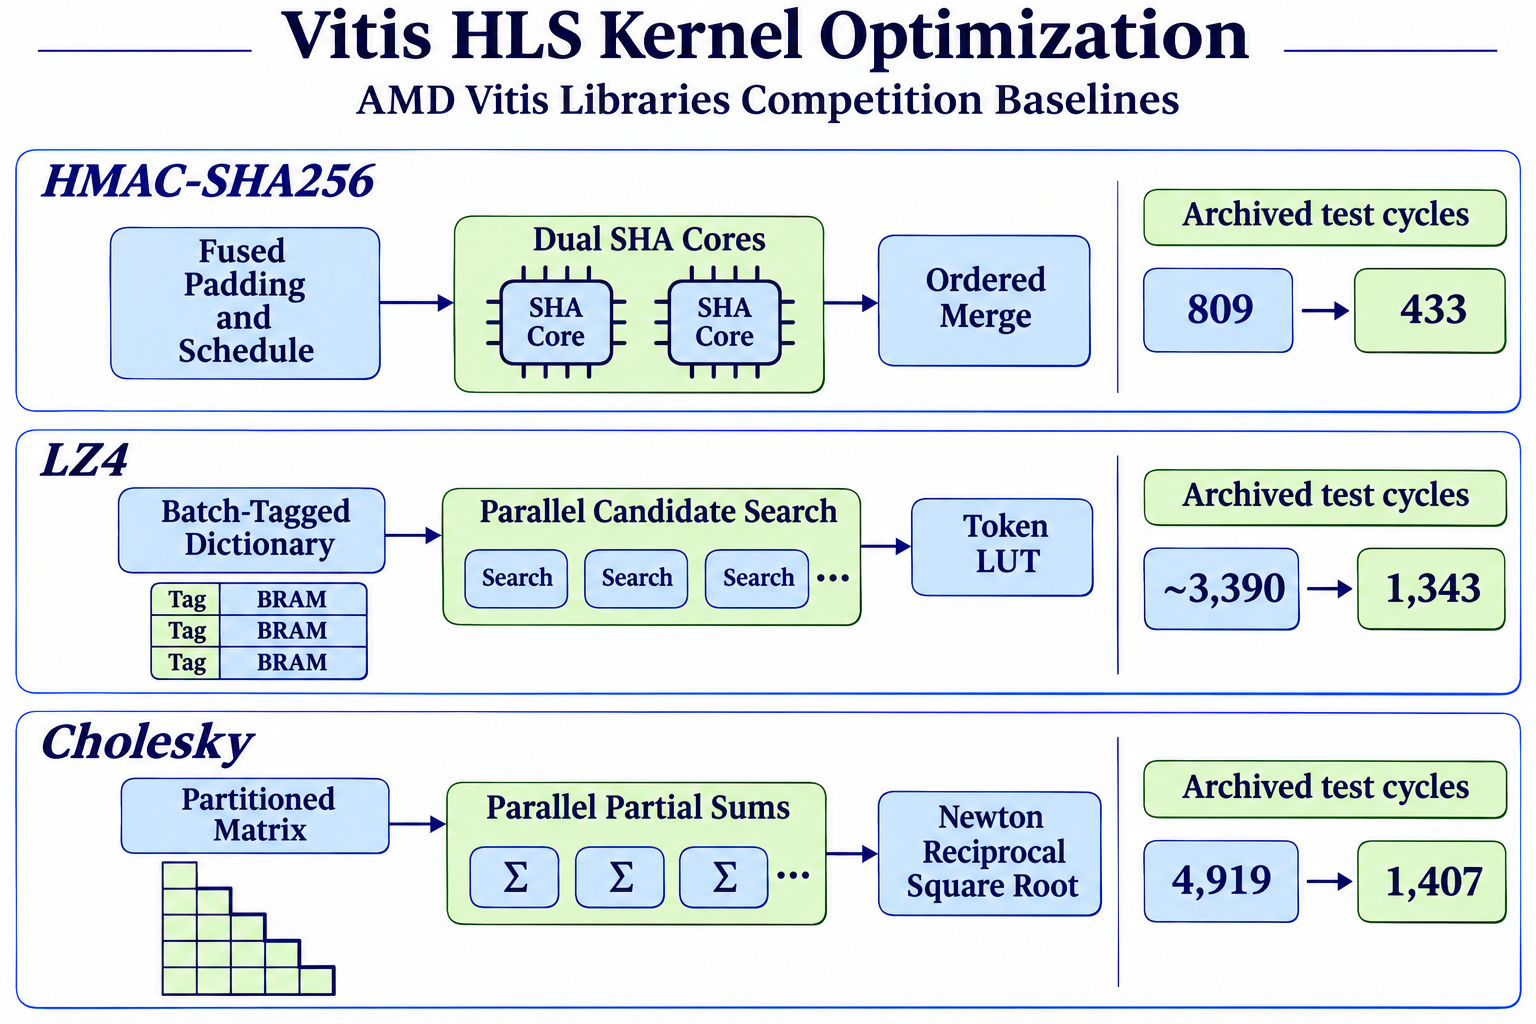
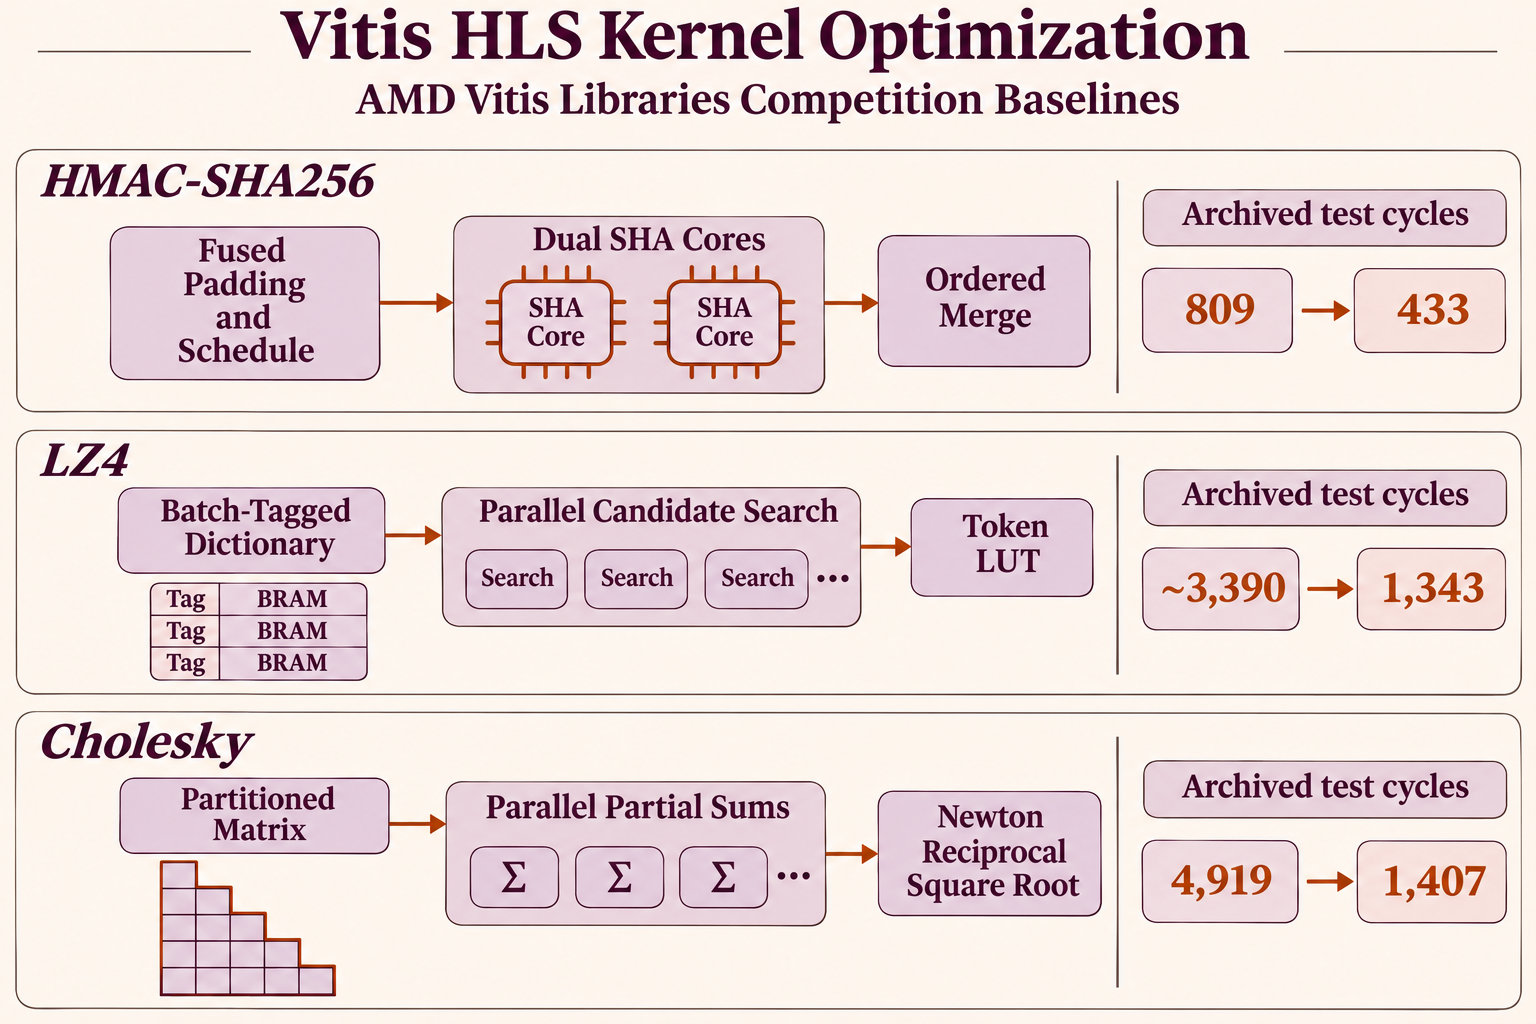
Illustrate each kernel optimization in detail

diff --git a/README.md b/README.md
@@ -18,6 +18,20 @@
 
 单位为归档测试的总执行周期，Cholesky 的 1,407 周期是测试总量，单次事务为 175 周期。结果对应 Vitis HLS 2024.2、`xc7z020-clg484-1` 和各赛题固定测试负载。LZ4 初始周期为归档近似值，保留的编码基线已包含部分预读取优化。具体变更、资源和精度取舍见各算子说明。 [初赛源码、基线和报告](preliminary/) · [上游许可与署名](NOTICE.md)
 
+#### 三项优化的数据通路
+
+**HMAC-SHA256** 将消息补位与调度字生成放进同一个阶段，省去中间块搬运，测试从 809 降到 592 周期。随后把完整消息分发给两个 SHA 核，按输入顺序合并摘要，将测试总周期降到 433。核内 64 轮保留算法规定的数据依赖。
+
+![HMAC-SHA256：阶段融合、双核分发与保序合并](docs/hmac-optimization.png)
+
+**LZ4** 为 BRAM 字典项加批次标签，读取时只接受本批次的记录，省去逐项清空。展开候选比较、按匹配长度选出有效结果，再由编码器查表生成 Token 并输出字节流。
+
+![LZ4：批次标签、并行候选匹配与 Token 编码](docs/lz4-optimization.png)
+
+**Cholesky** 保留行间依赖，将行内内积展开并并行归约。二维矩阵完全分区为并行读取提供端口，定点倒数平方根用分段初值和牛顿迭代近似。
+
+![Cholesky：矩阵分区、行内并行与倒数平方根](docs/cholesky-optimization.png)
+
 ### 决赛｜Zynq 实时频谱仪
 
 下图是竞赛期间的 PYNQ Z2 FFT 应用界面截图，展示 FIR 配置和时域、幅度、相位、功率谱密度视图。下文描述仓库归档的实时 ADC / UDP 版本。
@@ -56,6 +70,8 @@ This project won national second prize in the AMD track of the 2025 FPGA Innovat
 | [Cholesky](preliminary/docs/CHOLESKY.md) | 4,919 → 1,407 | 71.4% | Partitioned matrix storage, unrolled inner loops, parallel partial sums, and Newton reciprocal square root |
 
 These are archived test totals for the contest workloads, using Vitis HLS 2024.2 and `xc7z020-clg484-1`. Cholesky reports 175 cycles per transaction. The initial LZ4 count is approximate, and the retained encoder baseline already includes some prefetch changes. [Optimization sources, baselines, and reports](preliminary/) · [Upstream attribution](NOTICE.md)
+
+Detailed diagrams show [SHA stage fusion and ordered dual-core output](docs/hmac-optimization.png), [batch-tagged LZ4 dictionary and match search](docs/lz4-optimization.png), and [Cholesky row-local parallelism and diagonal normalization](docs/cholesky-optimization.png).
 
 ### Finals spectrum analyzer
 
